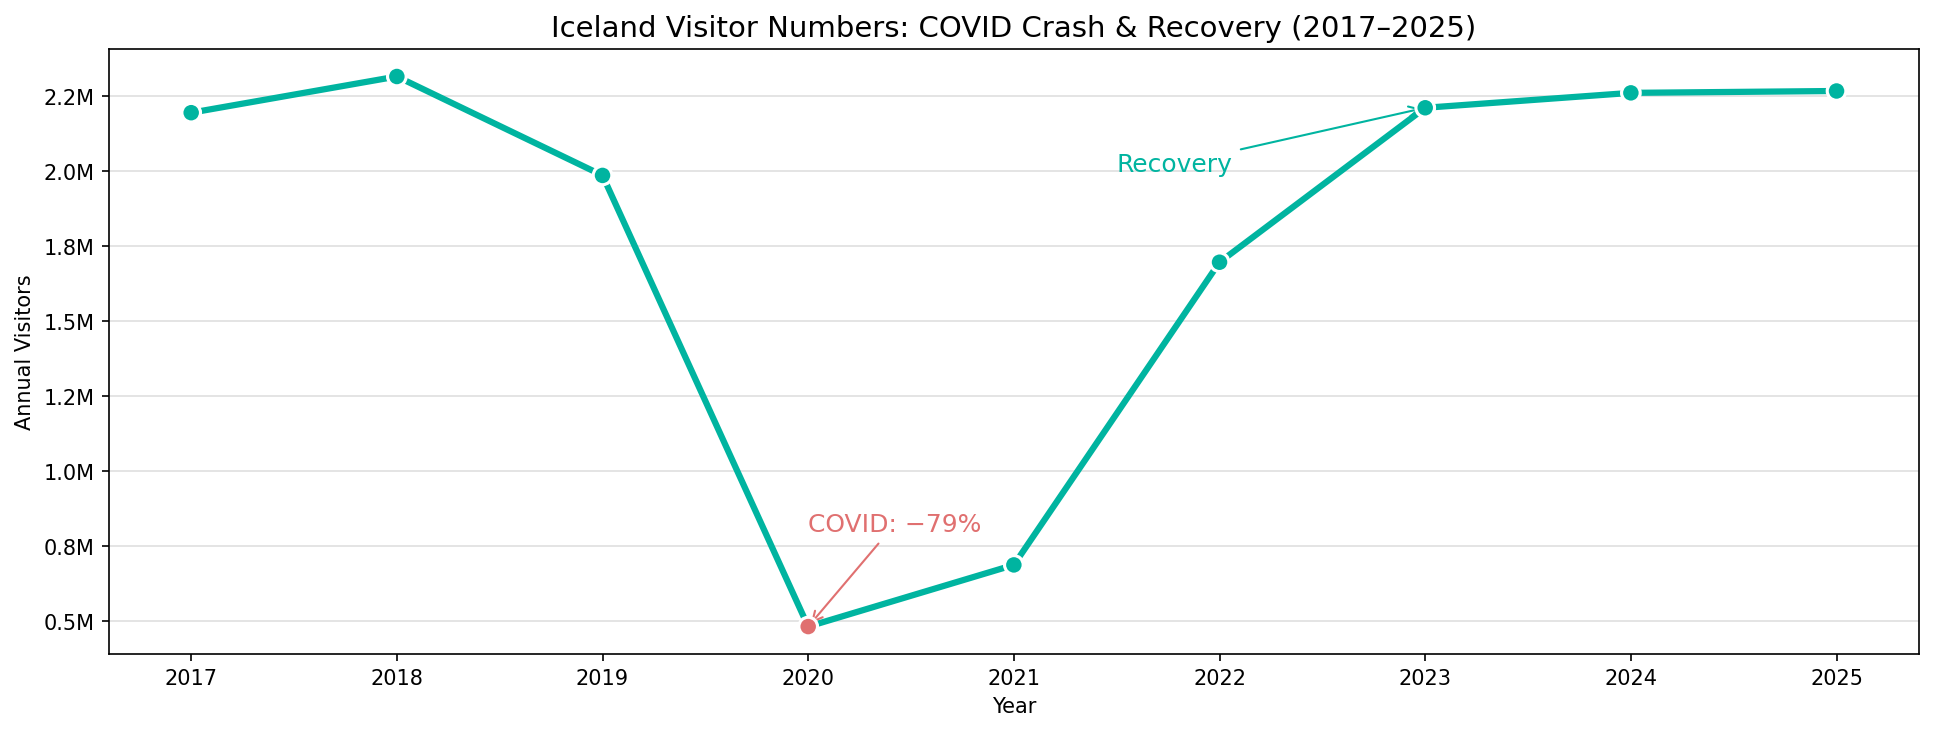
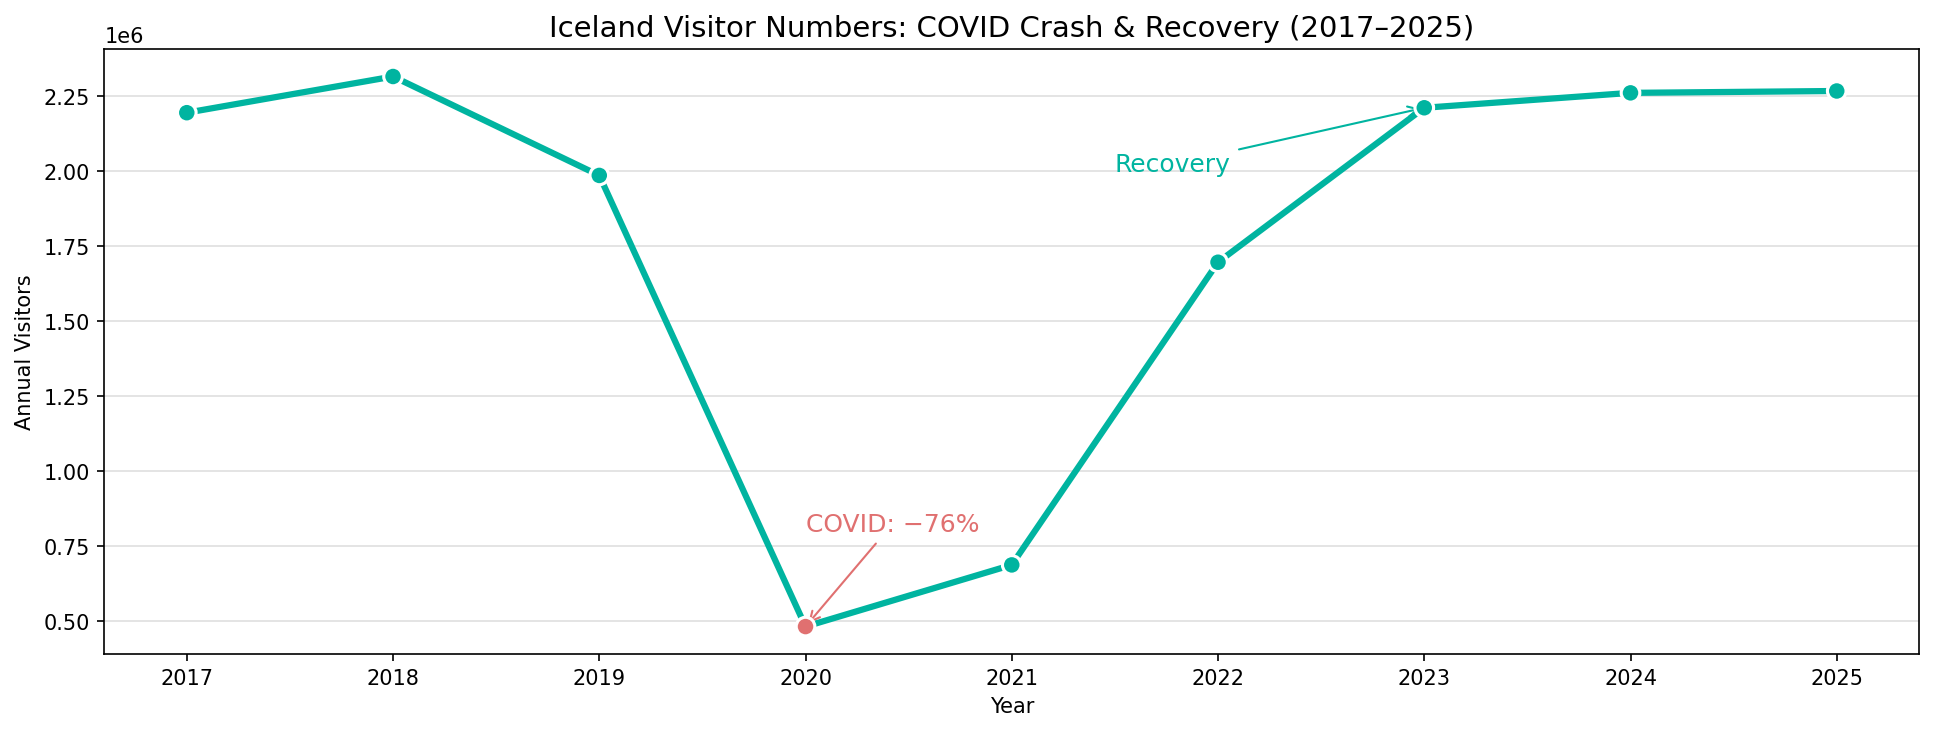
Website

diff --git a/index.html b/index.html
@@ -116,10 +116,10 @@ h2{font-family:'Fraunces',serif;font-size:clamp(2rem,3.8vw,2.9rem);font-weight:7
 <section id="disruption">
   <div class="stag">02 — Disruption</div>
   <h2>Then COVID hit and everything collapsed</h2>
-  <p class="lead">In early 2020, international travel came to a sudden stop. Iceland was hit hard. Visitor numbers dropped by 79 percent in just one year. It clearly shows how vulnerable a tourism based economy can be when people suddenly stop travelling.</p>
+  <p class="lead">In early 2020, international travel came to a sudden stop. Iceland was hit hard. Visitor numbers dropped by 76 percent in just one year. It clearly shows how vulnerable a tourism based economy can be when people suddenly stop travelling.</p>
   <div class="chart-wrap"><img src="images/disruption.png" alt="Major disruptions to Iceland tourism over time when COVID-19 hit."></div>
   <div class="cards">
-    <div class="card"><div class="big red">−76%</div><p>Visitor numbers in 2020 were 79 percent lower than in 2019. This was the largest drop in a single year across the entire dataset.</p></div>
+    <div class="card"><div class="big red">−76%</div><p>Visitor numbers in 2020 were 76 percent lower than in 2019. This was the largest drop in a single year across the entire dataset.</p></div>
     <div class="card"><div class="big green">+359%</div><p>The recovery happened quickly. By 2022, visitor numbers had increased strongly again. Iceland recovered faster than many other countries and had already passed pre COVID levels by 2023.</p></div>
   </div>
 </section>
@@ -141,7 +141,7 @@ h2{font-family:'Fraunces',serif;font-size:clamp(2rem,3.8vw,2.9rem);font-weight:7
 <section id="origins">
   <div class="stag">04 — Where They Come From</div>
   <h2>A surprisingly concentrated<br>visitor base</h2>
-  <p class="lead">The USA alone sent nearly 700,000 tourists in peak year 2018 — more than the next two countries combined. But the USA's dominance is gradually declining as Iceland diversifies its visitor base. Poland, Spain, and France have all grown faster proportionally since 2012.</p>
+  <p class="lead">The USA alone sent nearly 700,000 tourists in peak year 2018, more than the next two countries combined. But the USA's dominance is gradually declining as Iceland diversifies its visitor base. Poland, Spain, and France have all grown faster proportionally since 2012.</p>
   <div class="chart-wrap"><img src="images/origins.png" alt="Top countries of origin for visitors to Iceland"></div>
   <div class="finding">The USA's share of total visitors peaked around 2008–2010 and has been declining steadily since. Iceland is becoming less dependent on a single market — but the top 3 countries still account for over 50% of all visitors.</div>
 </section>
@@ -179,7 +179,7 @@ h2{font-family:'Fraunces',serif;font-size:clamp(2rem,3.8vw,2.9rem);font-weight:7
 <section>
   <div class="stag">07 — Conclusion</div>
   <p class="lead">There is no single reason behind Iceland’s tourism boom. Instead, several things came together at the right time. After 2008, the króna weakened and made the country more affordable. A few years later, the Eyjafjallajökull eruption put Iceland in front of a global audience. At the same time, cheaper flights and the rise of social media made it easier and more appealing to visit. </br>Together, these factors helped turn a small and relatively unknown destination into a major tourist hotspot. </br>What stands out is not just how fast tourism grew, but how uneven it still is. Most visitors continue to come in the summer, and a large share still comes from only a few countries. Even after years of growth, Iceland has not fully become a year round destination. </br>Whether this level of tourism can continue is uncertain. The numbers remain high, but this dataset cannot tell us what will happen next.</p>
-  <div class="credits">Eyjólfur · Gunnlaugur · Ívar &nbsp;·&nbsp; Social Data Analysis & Visualization 02806 &nbsp;·&nbsp; DTU &nbsp;·&nbsp; Spring 2026</div>
+  <div class="credits">Eyjólfur/s252852 · Gunnlaugur/s252874 · Ívar/s252887 &nbsp;·&nbsp; Social Data Analysis & Visualization 02806 &nbsp;·&nbsp; DTU &nbsp;·&nbsp; Spring 2026</div>
 </section>
 </div>
 
